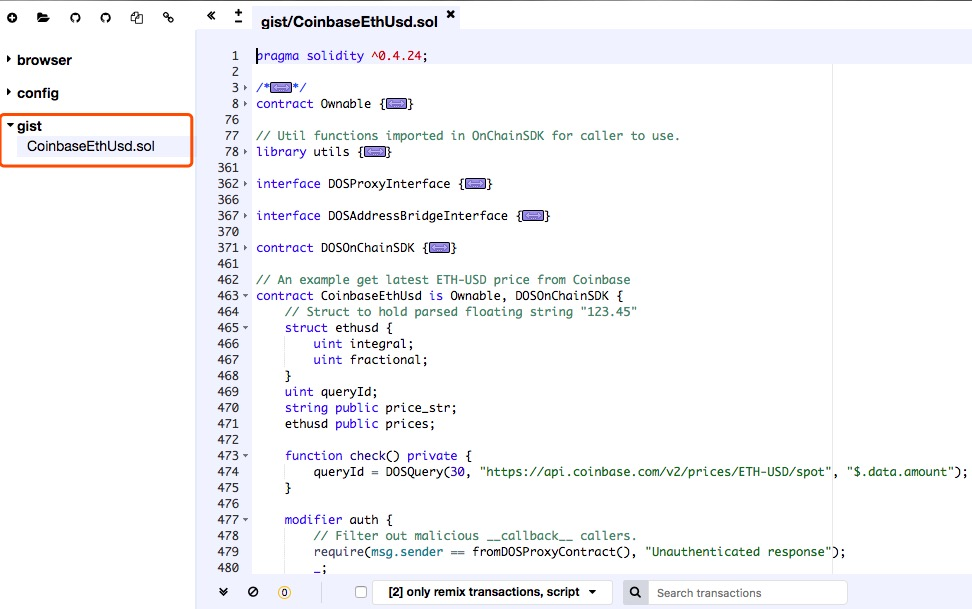
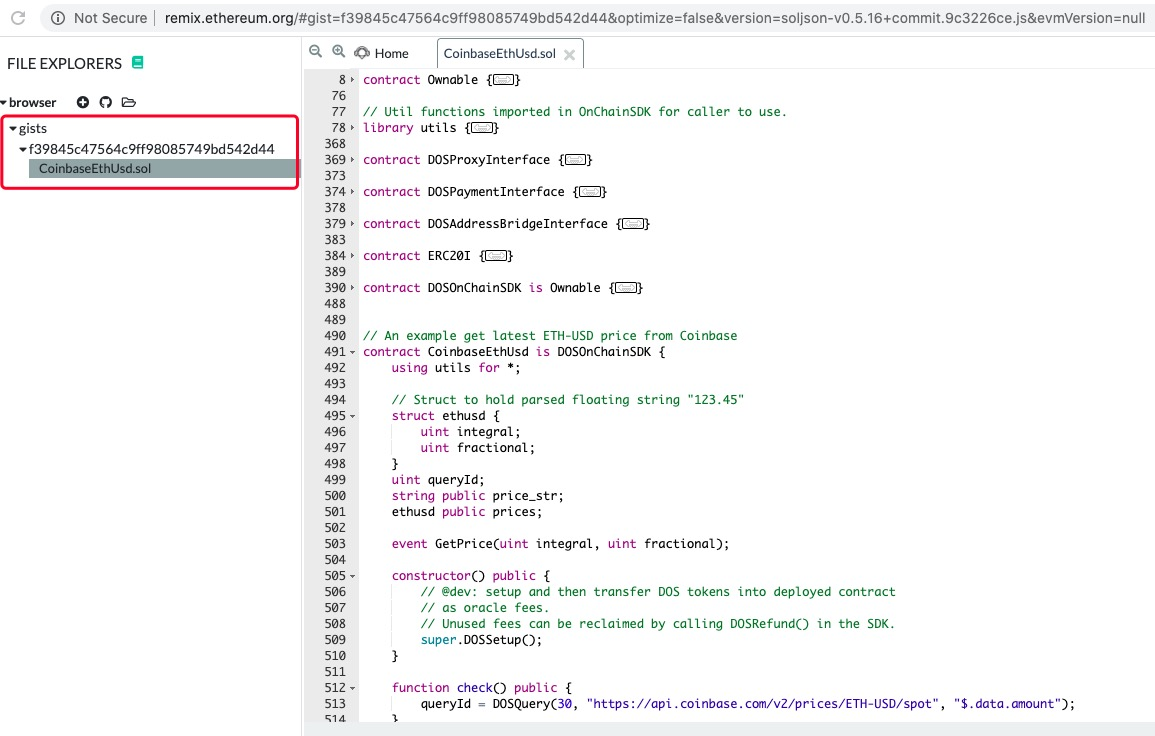
update docs 1/n

Changed region(s): [[0.0, 0.0, 1.0, 0.9984]]

diff --git a/contents/blockchains/ethereum.md b/contents/blockchains/ethereum.md
@@ -146,161 +146,169 @@ function __callback__(uint requestId, uint generatedRandom)
 ## More examples
 - **Example 1**: `DOSQuery()` to get latest ETH-USD price from Coinbase.
 ```solidity
-  pragma solidity ^0.4.24;
+  pragma solidity ^0.5.0;
 
-  import "./Ownable.sol";
-  import "./DOSOnChainSDK.sol";
+  import "../lib/utils.sol";
+  import "../DOSOnChainSDK.sol";
 
-  contract CoinbaseEthUsd is Ownable, DOSOnChainSDK {
-      // Struct to hold parsed floating string "123.45"
-      struct ethusd {
-          uint integral;
-          uint fractional;
-      }
-      uint queryId;
-      string public price_str;
-      ethusd public prices;
+  // An example get latest ETH-USD price from Coinbase
+  contract CoinbaseEthUsd is DOSOnChainSDK {
+    using utils for *;
 
-      event GetPrice(uint integral, uint fractional);
+    // Struct to hold parsed floating string "123.45"
+    struct ethusd {
+        uint integral;
+        uint fractional;
+    }
+    uint queryId;
+    string public price_str;
+    ethusd public prices;
 
-      function check() public {
-          queryId = DOSQuery(30, "https://api.coinbase.com/v2/prices/ETH-USD/spot", "$.data.amount");
-      }
+    event GetPrice(uint integral, uint fractional);
 
-      modifier auth {
-          // Filter out malicious __callback__ callers.
-          require(msg.sender == fromDOSProxyContract(), "Unauthenticated response");
-          _;
-      }
+    constructor() public {
+        // @dev: setup and then transfer DOS tokens into deployed contract
+        // as oracle fees.
+        // Unused fees can be reclaimed by calling DOSRefund() in the SDK.
+        super.DOSSetup();
+    }
 
-      function __callback__(uint id, bytes result) external auth {
-          require(queryId == id, "Unmatched response");
+    function check() public {
+        queryId = DOSQuery(30, "https://api.coinbase.com/v2/prices/ETH-USD/spot", "$.data.amount");
+    }
 
-          price_str = string(result);
-          prices.integral = price_str.subStr(1).str2Uint();
-          int delimit_idx = price_str.indexOf('.');
-          if (delimit_idx != -1) {
-              prices.fractional = price_str.subStr(uint(delimit_idx + 1)).str2Uint();
-          }
-          emit GetPrice(prices.integral, prices.fractional);
-      }
+    function __callback__(uint id, bytes calldata result) external auth {
+        require(queryId == id, "Unmatched response");
+
+        price_str = string(result);
+        prices.integral = price_str.subStr(1).str2Uint();
+        int delimit_idx = price_str.indexOf('.');
+        if (delimit_idx != -1) {
+            prices.fractional = price_str.subStr(uint(delimit_idx + 1)).str2Uint();
+        }
+        emit GetPrice(prices.integral, prices.fractional);
+    }
   }
 ```
-Try this gist on [remix](http://remix.ethereum.org/#gist=f39845c47564c9ff98085749bd542d44&optimize=false&version=soljson-v0.4.25+commit.59dbf8f1.js). The example is also [deployed](https://rinkeby.etherscan.io/address/0xf7fbe8467dc230316e04bbe00c5c811a18886a7e) on rinkeby testnet.
+Try this gist on [remix](http://remix.ethereum.org/#gist=f39845c47564c9ff98085749bd542d44&optimize=false&version=soljson-v0.5.16+commit.9c3226ce.js). The example is also [deployed](https://rinkeby.etherscan.io/address/0x4608bf4775bc430fae4c72de925035c2bf00197b) on rinkeby testnet.
 <div></div>
 <center>![remix](../../_media/remix.png ':size=600x400')</center>
 
 
 - **Example 2**: A `SimpleDice` game with no insider trading or house edge, based on smart contract plus secure and unpredictable random number generated through `DOSRandom()`.
 ```solidity
-  pragma solidity ^0.4.24;
+  pragma solidity ^0.5.0;
 
   import "./DOSOnChainSDK.sol";
 
   contract SimpleDice is DOSOnChainSDK {
-      address public devAddress = 0xe4E18A49c6F1210FFE9a60dBD38071c6ef78d982;
-      uint public devContributed = 0;
-      // 1% winning payout goes to developer account
-      uint public developCut = 1;
-      // precise to 4 digits after decimal point.
-      uint public decimal = 4;
-      // gameId => gameInfo
-      mapping(uint => DiceInfo) public games;
+    address payable public devAddress;
+    uint public devContributed = 0;
+    // 1% winning payout goes to developer account
+    uint public developCut = 1;
+    // precise to 4 digits after decimal point.
+    uint public decimal = 4;
+    // gameId => gameInfo
+    mapping(uint => DiceInfo) public games;
 
-      struct DiceInfo {
-          uint rollUnder;  // betted number, player wins if random < rollUnder
-          uint amountBet;  // amount in wei
-          address player;  // better address
-      }
+    struct DiceInfo {
+        uint rollUnder;  // betted number, player wins if random < rollUnder
+        uint amountBet;  // amount in wei
+        address payable player;  // better address
+    }
 
-      event ReceivedBet(
-          uint gameId,
-          uint rollUnder,
-          uint weiBetted,
-          address better
-      );
-      event PlayerWin(uint gameId, uint generated, uint betted, uint amountWin);
-      event PlayerLose(uint gameId, uint generated, uint betted);
+    event ReceivedBet(
+        uint gameId,
+        uint rollUnder,
+        uint weiBetted,
+        address better
+    );
+    event PlayerWin(uint gameId, uint generated, uint betted, uint amountWin);
+    event PlayerLose(uint gameId, uint generated, uint betted);
 
-      modifier auth {
-          // Filter out malicious __callback__ callers.
-          require(msg.sender == fromDOSProxyContract(), "Unauthenticated response");
-          _;
-      }
+    modifier onlyDev {
+        require(msg.sender == devAddress);
+        _;
+    }
 
-      modifier onlyDev {
-          require(msg.sender == devAddress);
-          _;
-      }
+    constructor() public {
+        // @dev: setup and then transfer DOS tokens into deployed contract
+        // as oracle fees.
+        // Unused fees can be reclaimed by calling DOSRefund() in the SDK.
+        super.DOSSetup();
+        
+        // Convert address to payable address.
+        devAddress = address(uint160(owner()));
+    }
 
-      function min(uint a, uint b) internal pure returns(uint) {
-          return a < b ? a : b;
-      }
-      // Only receive bankroll funding from developer.
-      function() public payable onlyDev {
-          devContributed += msg.value;
-      }
-      // Only developer can withdraw the amount up to what he has contributed.
-      function devWithdrawal() public onlyDev {
-          uint withdrawalAmount = min(address(this).balance, devContributed);
-          devContributed = 0;
-          devAddress.transfer(withdrawalAmount);
-      }
+    function min(uint a, uint b) internal pure returns(uint) {
+        return a < b ? a : b;
+    }
+    // Only receive bankroll funding from developer.
+    function() external payable onlyDev {
+        devContributed += msg.value;
+    }
+    // Only developer can withdraw the amount up to what he has contributed.
+    function devWithdrawal() public onlyDev {
+        uint withdrawalAmount = min(address(this).balance, devContributed);
+        devContributed = 0;
+        devAddress.transfer(withdrawalAmount);
+    }
 
-      // 100 / (rollUnder - 1) * (1 - 0.01) => 99 / (rollUnder - 1)
-      // Not using SafeMath as this function cannot overflow anyway.
-      function computeWinPayout(uint rollUnder) public view returns(uint) {
-          return 99 * (10 ** decimal) / (rollUnder - 1);
-      }
+    // 100 / (rollUnder - 1) * (1 - 0.01) => 99 / (rollUnder - 1)
+    // Not using SafeMath as this function cannot overflow anyway.
+    function computeWinPayout(uint rollUnder) public view returns(uint) {
+        return 99 * (10 ** decimal) / (rollUnder - 1);
+    }
 
-      // 100 / (rollUnder - 1) * 0.01
-      function computeDeveloperCut(uint rollUnder) public view returns(uint) {
-          return 10 ** decimal / (rollUnder - 1);
-      }
+    // 100 / (rollUnder - 1) * 0.01
+    function computeDeveloperCut(uint rollUnder) public view returns(uint) {
+        return 10 ** decimal / (rollUnder - 1);
+    }
 
-      function play(uint rollUnder) public payable {
-          // winChance within [1%, 95%]
-          require(rollUnder >= 2 && rollUnder <= 96, "rollUnder should be in 2~96");
-          // Make sure contract has enough balance to cover payouts before game.
-          // Not using SafeMath as I'm not expecting this demo contract's
-          // balance to be very large.
-          require(address(this).balance * (10 ** decimal) >= msg.value * computeWinPayout(rollUnder),
-                  "Game contract doesn't have enough balance, decrease rollUnder");
+    function play(uint rollUnder) public payable {
+        // winChance within [1%, 95%]
+        require(rollUnder >= 2 && rollUnder <= 96, "rollUnder should be in 2~96");
+        // Make sure contract has enough balance to cover payouts before game.
+        // Not using SafeMath as I'm not expecting this demo contract's
+        // balance to be very large.
+        require(address(this).balance * (10 ** decimal) >= msg.value * computeWinPayout(rollUnder),
+                "Game contract doesn't have enough balance, decrease rollUnder");
 
-          // Request a safe, unmanipulatable random number from DOS Network with
-          // optional seed.
-          uint gameId = DOSRandom(1, now);
+        // Request a safe, unmanipulatable random number from DOS Network with
+        // optional seed.
+        uint gameId = DOSRandom(now);
 
-          games[gameId] = DiceInfo(rollUnder, msg.value, msg.sender);
-          // Emit event to notify Dapp frontend
-          emit ReceivedBet(gameId, rollUnder, msg.value, msg.sender);
-      }
+        games[gameId] = DiceInfo(rollUnder, msg.value, msg.sender);
+        // Emit event to notify Dapp frontend
+        emit ReceivedBet(gameId, rollUnder, msg.value, msg.sender);
+    }
 
-      function __callback__(uint requestId, uint generatedRandom) external auth {
-          address player = games[requestId].player;
-          require(player != address(0x0));
+    function __callback__(uint requestId, uint generatedRandom) external auth {
+        address payable player = games[requestId].player;
+        require(player != address(0x0));
 
-          uint gen_rnd = generatedRandom % 100 + 1;
-          uint rollUnder = games[requestId].rollUnder;
-          uint betted = games[requestId].amountBet;
-          delete games[requestId];
+        uint gen_rnd = generatedRandom % 100 + 1;
+        uint rollUnder = games[requestId].rollUnder;
+        uint betted = games[requestId].amountBet;
+        delete games[requestId];
 
-          if (gen_rnd < rollUnder) {
-              // Player wins
-              uint payout = betted * computeWinPayout(rollUnder) / (10 ** decimal);
-              uint devPayout = betted * computeDeveloperCut(rollUnder) / (10 ** decimal);
+        if (gen_rnd < rollUnder) {
+            // Player wins
+            uint payout = betted * computeWinPayout(rollUnder) / (10 ** decimal);
+            uint devPayout = betted * computeDeveloperCut(rollUnder) / (10 ** decimal);
 
-              emit PlayerWin(requestId, gen_rnd, rollUnder, payout);
-              player.transfer(payout);
-              devAddress.transfer(devPayout);
-          } else {
-              // Lose
-              emit PlayerLose(requestId, gen_rnd, rollUnder);
-          }
-      }
+            emit PlayerWin(requestId, gen_rnd, rollUnder, payout);
+            player.transfer(payout);
+            devAddress.transfer(devPayout);
+        } else {
+            // Lose
+            emit PlayerLose(requestId, gen_rnd, rollUnder);
+        }
+    }
   }
 ```
-Try this gist out on [remix](http://remix.ethereum.org/#gist=3b2ca0410af407497bdc70ffe79ee123&optimize=false&version=soljson-v0.4.25+commit.59dbf8f1.js). The example is also [deployed](https://rinkeby.etherscan.io/address/0x0bbd2256f1710a55d8070b1c3c063cc46f889ffd) on rinkeby testnet.
+Try this gist out on [remix](http://remix.ethereum.org/#gist=3b2ca0410af407497bdc70ffe79ee123&optimize=false&version=soljson-v0.5.16+commit.9c3226ce.js). The example is also [deployed](https://rinkeby.etherscan.io/address/0x46b6a34b5e96519001162140a635ee0895bd284d) on rinkeby testnet.
 
 
 ## Security deposit and payment

diff --git a/_sidebar.md b/_sidebar.md
@@ -2,10 +2,6 @@
 * **Developers**
   * **Supported Chains**
     * [Ethereum](contents/blockchains/ethereum.md)
-    * [EOS](contents/blockchains/eos.md)
-    * [Thunder](contents/blockchains/thunder.md)
-    * [Zilliqa](contents/blockchains/zilliqa.md)
-    * [Neo](contents/blockchains/neo.md)
   * [**Tools**](contents/dev_tools.md)
 * **Node Runners**
   * [Download and Deploy](contents/deploy.md)
